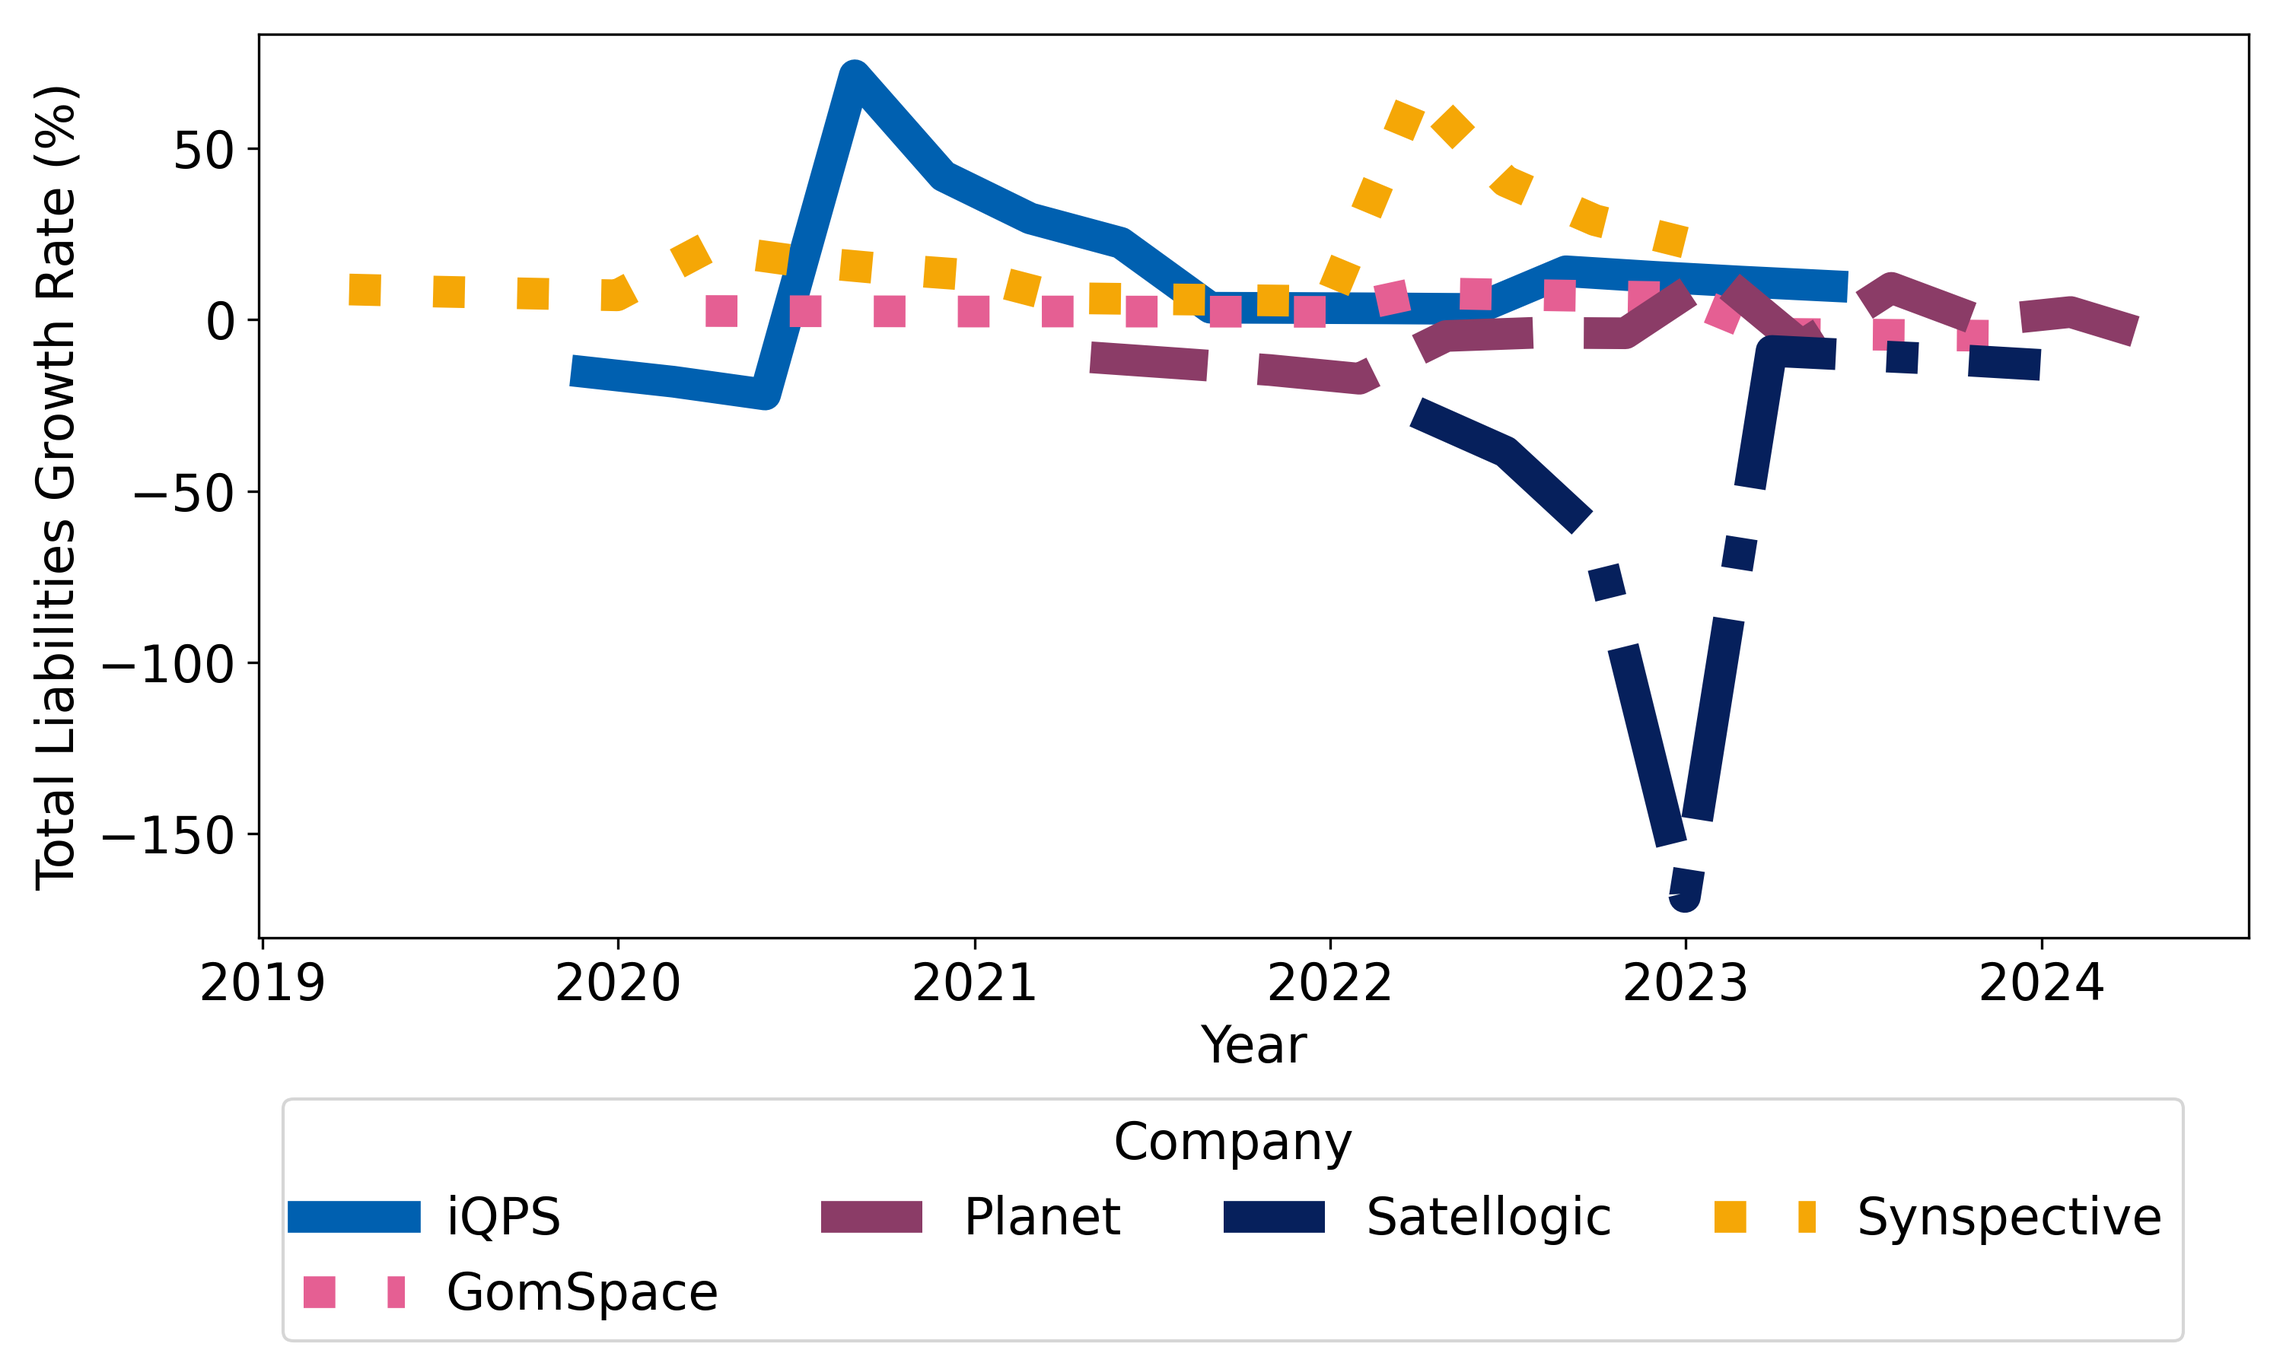
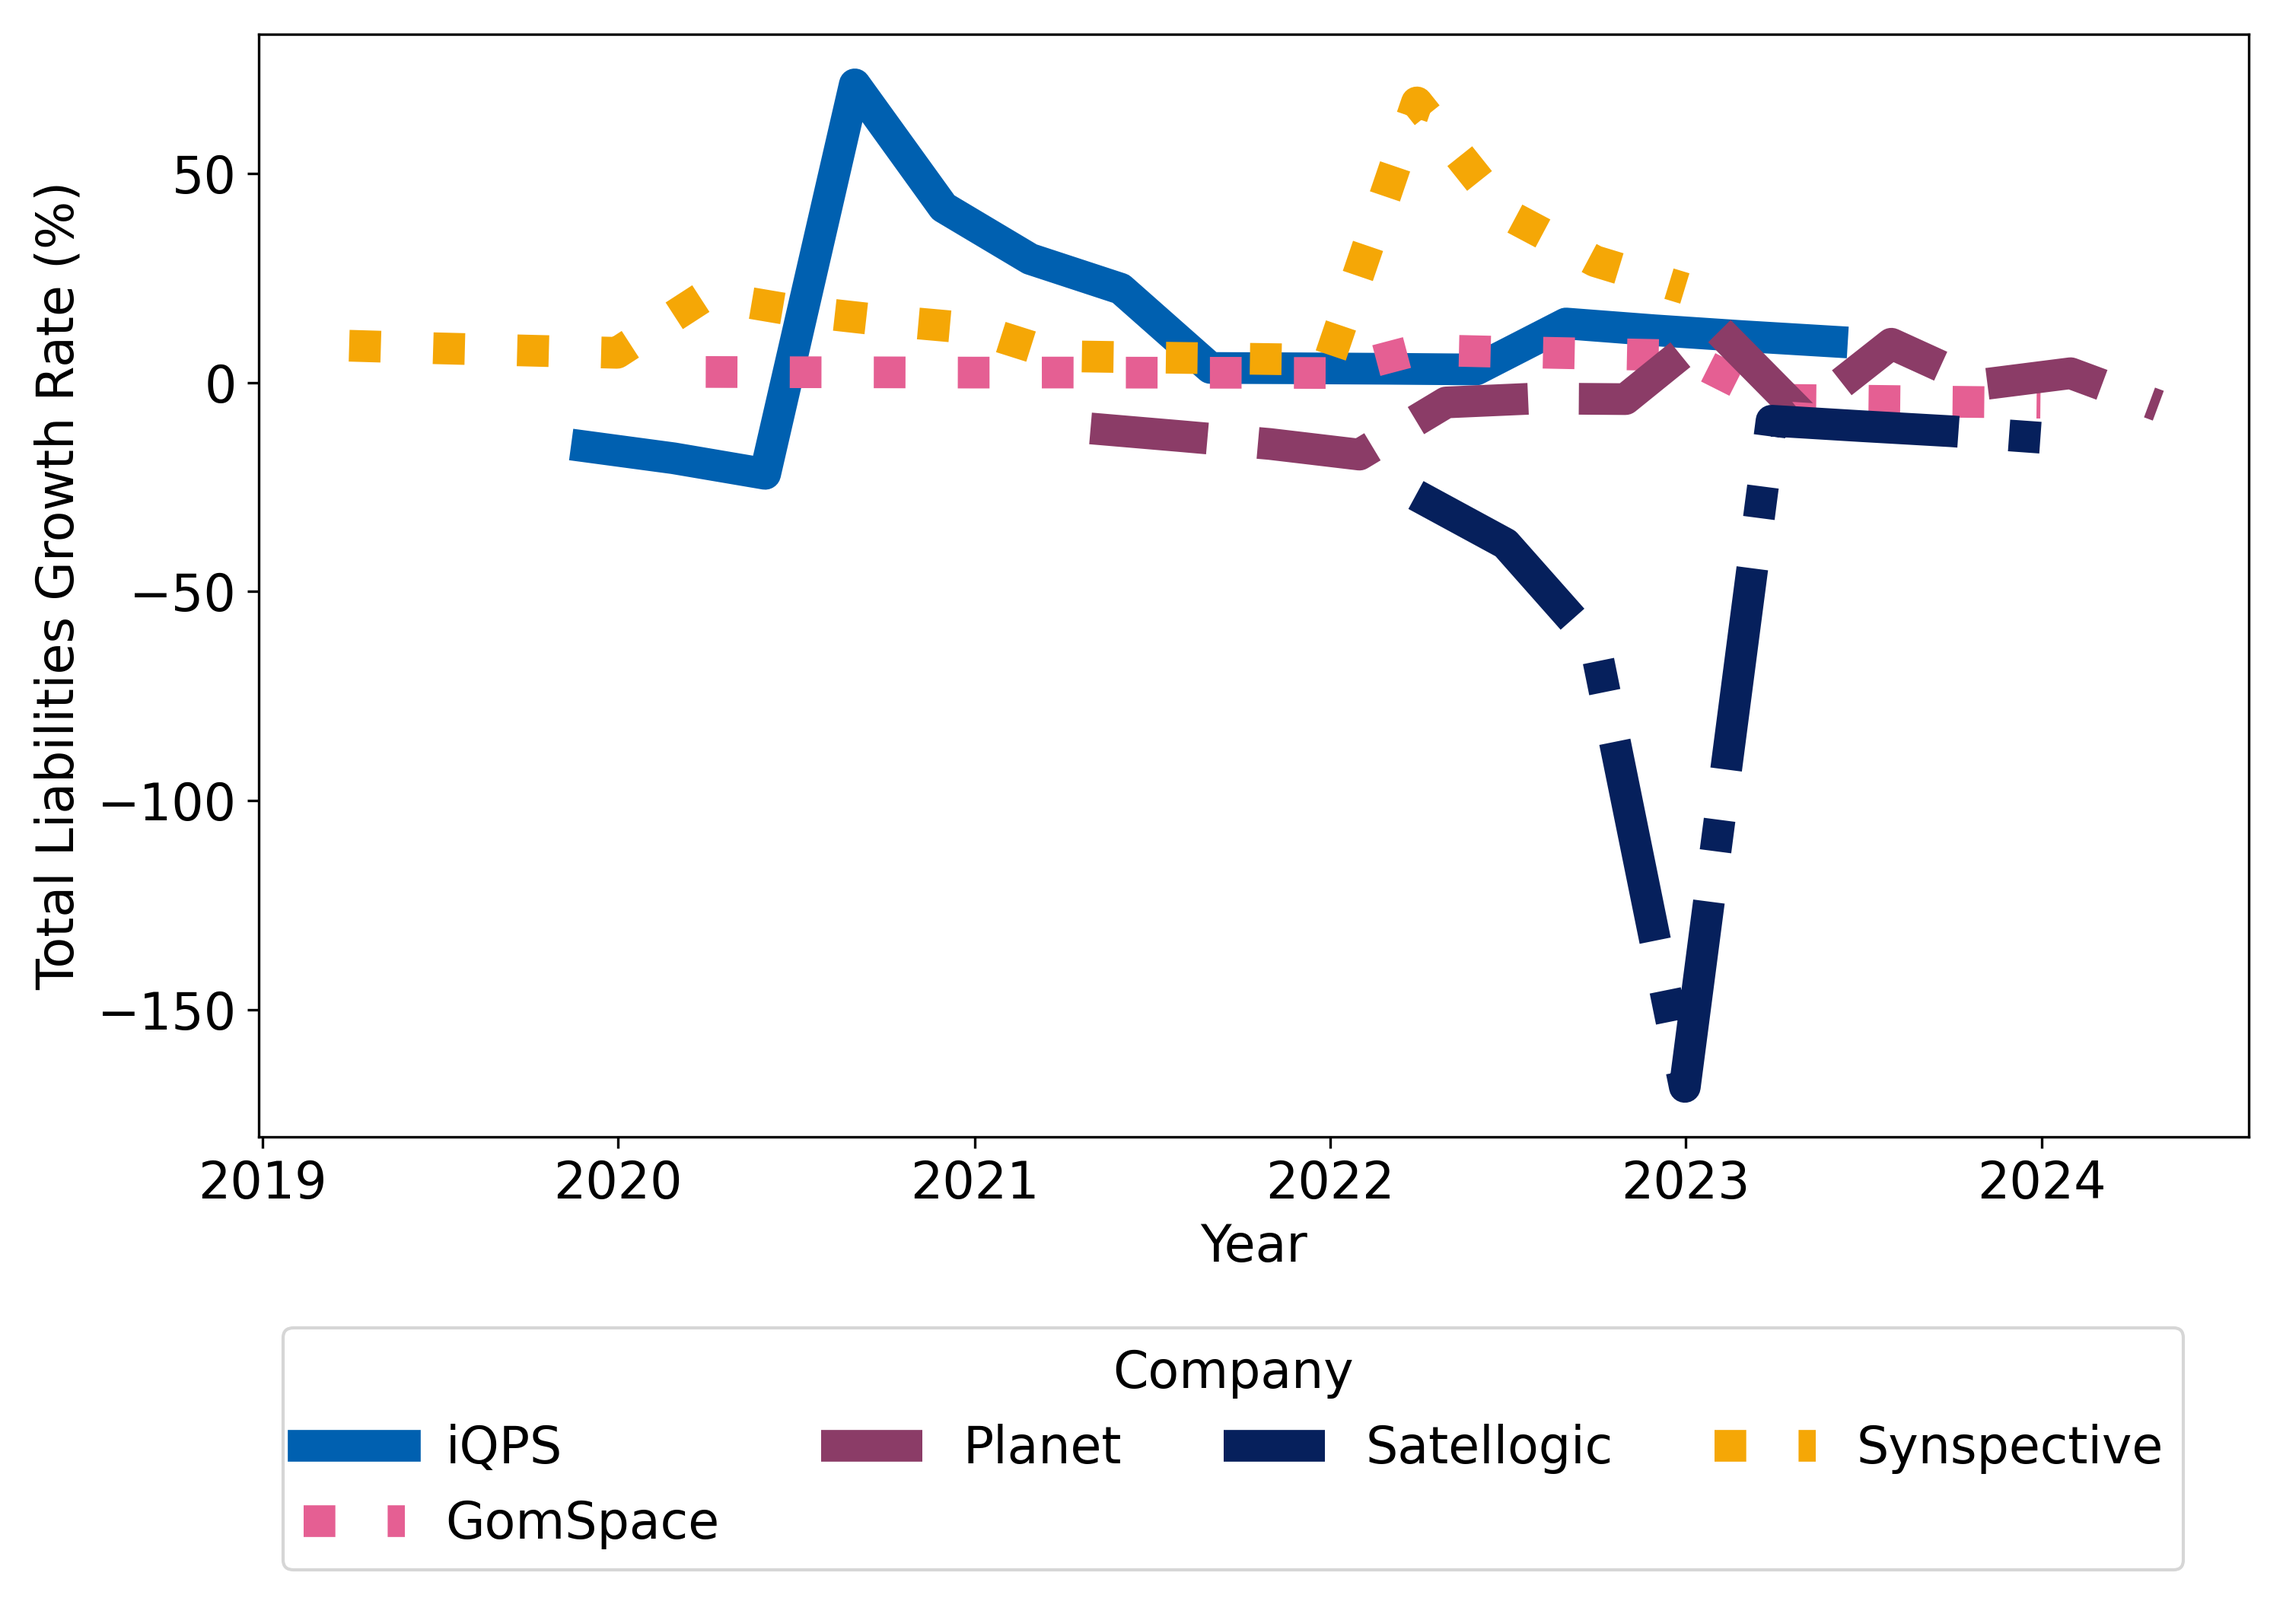
[UPDATE] fig dimensions

diff --git a/src/process.py b/src/process.py
@@ -89,13 +89,13 @@ fig27, ax27 = plt.subplots(2, 3, figsize=(12, 10), dpi=300)
 fig28, ax28 = plt.subplots(2, 3, figsize=(12, 10), dpi=300)
 fig29, ax29 = plt.subplots(2, 3, figsize=(12, 10), dpi=300)
 fig30, ax30 = plt.subplots(2, 3, figsize=(12, 10), dpi=300)
-fig3, ax3 = plt.subplots(figsize=(10, 6), dpi=300)
-fig4, ax4 = plt.subplots(figsize=(10, 6), dpi=300)
-fig5, ax5 = plt.subplots(figsize=(10, 6), dpi=300)
-fig6, ax6 = plt.subplots(figsize=(10, 6), dpi=300)
-fig7, ax7 = plt.subplots(figsize=(10, 6), dpi=300)
-fig8, ax8 = plt.subplots(figsize=(10, 6), dpi=300)
-fig9, ax9 = plt.subplots(figsize=(10, 6), dpi=300)
+fig3, ax3 = plt.subplots(figsize=(10, 7), dpi=300)
+fig4, ax4 = plt.subplots(figsize=(10, 7), dpi=300)
+fig5, ax5 = plt.subplots(figsize=(10, 7), dpi=300)
+fig6, ax6 = plt.subplots(figsize=(10, 7), dpi=300)
+fig7, ax7 = plt.subplots(figsize=(10, 7), dpi=300)
+fig8, ax8 = plt.subplots(figsize=(10, 7), dpi=300)
+fig9, ax9 = plt.subplots(figsize=(10, 7), dpi=300)
 
 for i, company in enumerate(company_metadata):
     print("COMPANY: ", company)
